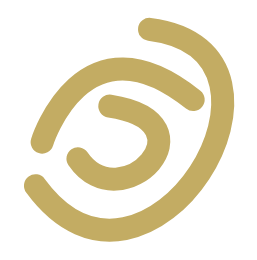
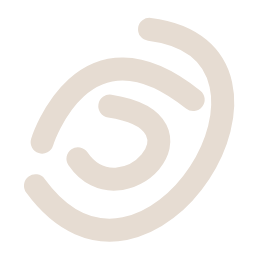
first pagr

Changed region(s): [[0.0934, 0.0615, 0.9339, 0.9538]]

diff --git a/style.css b/style.css
@@ -6,7 +6,7 @@
     --base_grey_primary: #262626;
     --base_grey_secondary: #505050;
 
-    --base_beige_primary: #C5B39D;
+    --base_beige_primary: #9a866f;
     --base_beige_secondary: #E6DCD2;
 
     --base_green_primary: #63561D;
@@ -20,7 +20,7 @@ body, html{
     background-color: var(--base_grey_primary);
     margin: 0;
     color: var(--base_grey_primary);
-    font-family:  var(--base_font_family);
+    font-family: var(--base_font_family);
 }
 
 .header{
@@ -29,10 +29,14 @@ body, html{
     box-shadow: inset 0 4vw 3vw -3vw rgba(0,0,0,0.8);
 }
 
+
 .brand{
-    color: var(--base_beige_secondary);
-    font-size: 2vw;
+    width: 100%;
     position: absolute;
+}
+
+.brand .logo{
+    height: 7vh;
     margin-left: 3%;
 }
 
@@ -44,7 +48,7 @@ body, html{
 
 .nav a{
     text-decoration: none;
-    color: var(--base_beige_secondary);
+    color: var(--base_beige_primary);
     font-size: 2vw;
     margin-left: 3%;
     margin-right: 3%;
@@ -61,8 +65,25 @@ body, html{
 
 .first .content{
     color: var(--base_beige_secondary);
-    font-size: 10vh;
+    font-size: 12vh;
+    width: 95%;
+    margin-top: 20%;
+    align-content: right;
+    line-height: 90%;
+}
+
+.history{
     float: right;
+}
+
+.history .primary{
+    font-size: 5vh ;
+    line-height: 90%;
+}
+
+.history .secondary{
+    font-size: 3vh ;
+    line-height: 80%;
 }
 
 .second{

diff --git a/index.html b/index.html
@@ -9,9 +9,11 @@
     <body>
         <div class="first">
             <div class="header">
+
                 <div class="brand">
-                    noodlee
+                    <img class="logo" src="images/brand.png">
                 </div>
+
                 <div class="nav">
                     <a href="/home">home</a>
                     <a href="/menu">menu</a>
@@ -21,8 +23,11 @@
             </div>
 
             <div class="content">
-                History of our Noodles
-                ....
+                <div class="history">
+                    <span class="primary">Our</span> Noodlees<br>
+                    Secret<br>
+                    <span class="secondary">...is a good pinch of salt and history.</span>
+                </div>
             </div>
 
             
